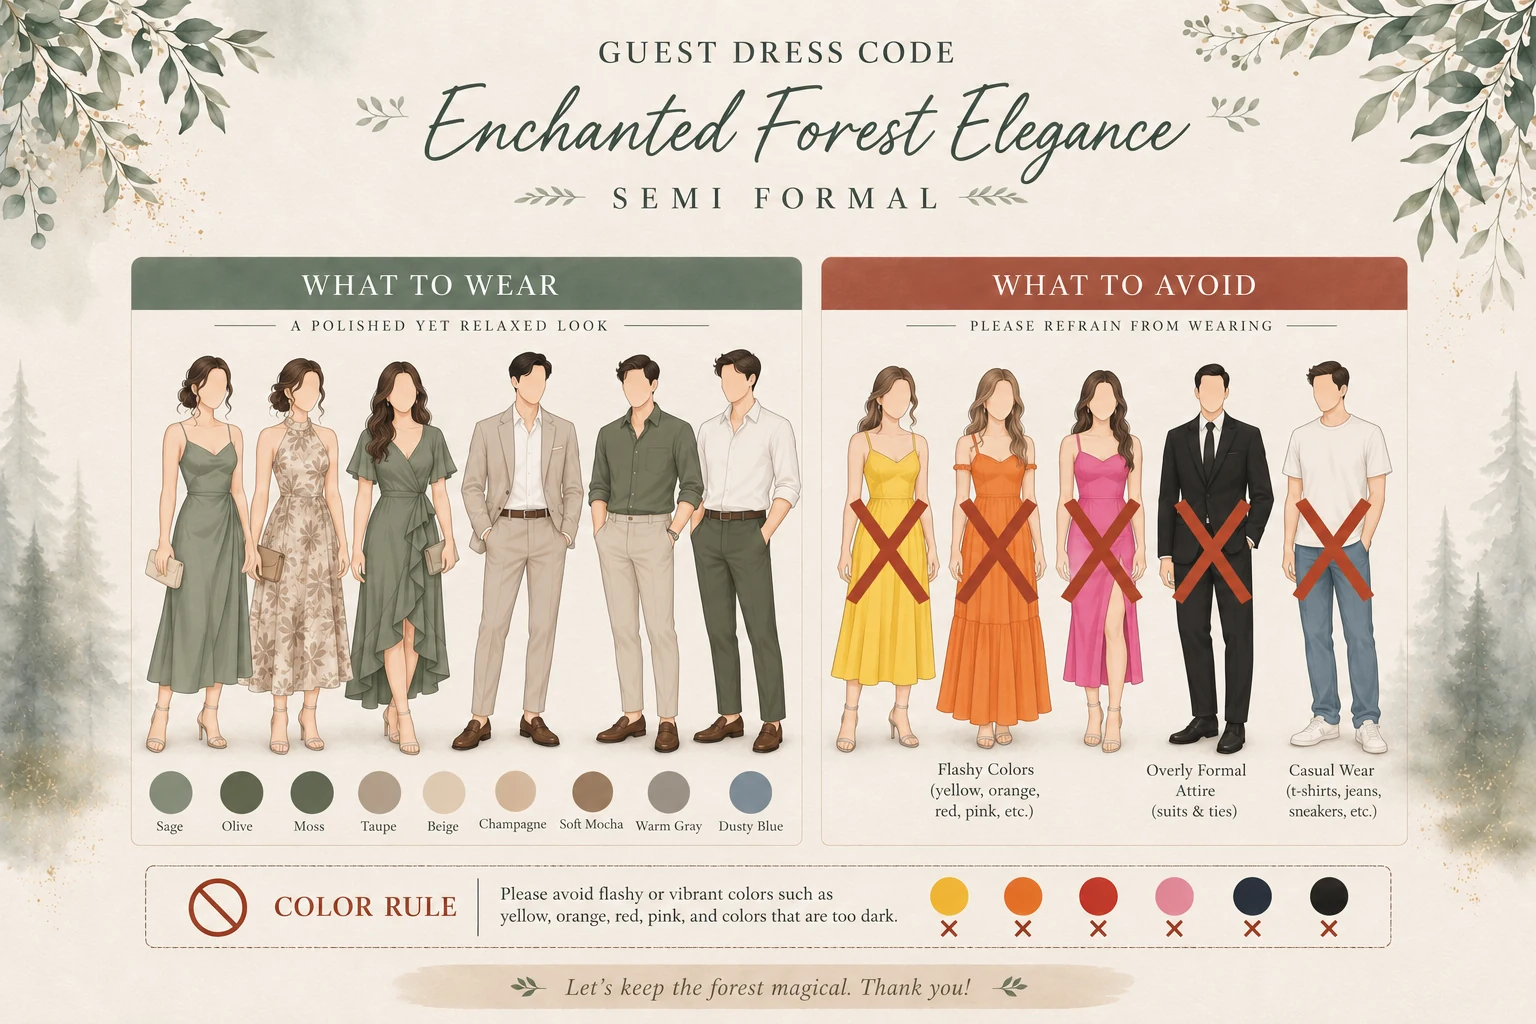
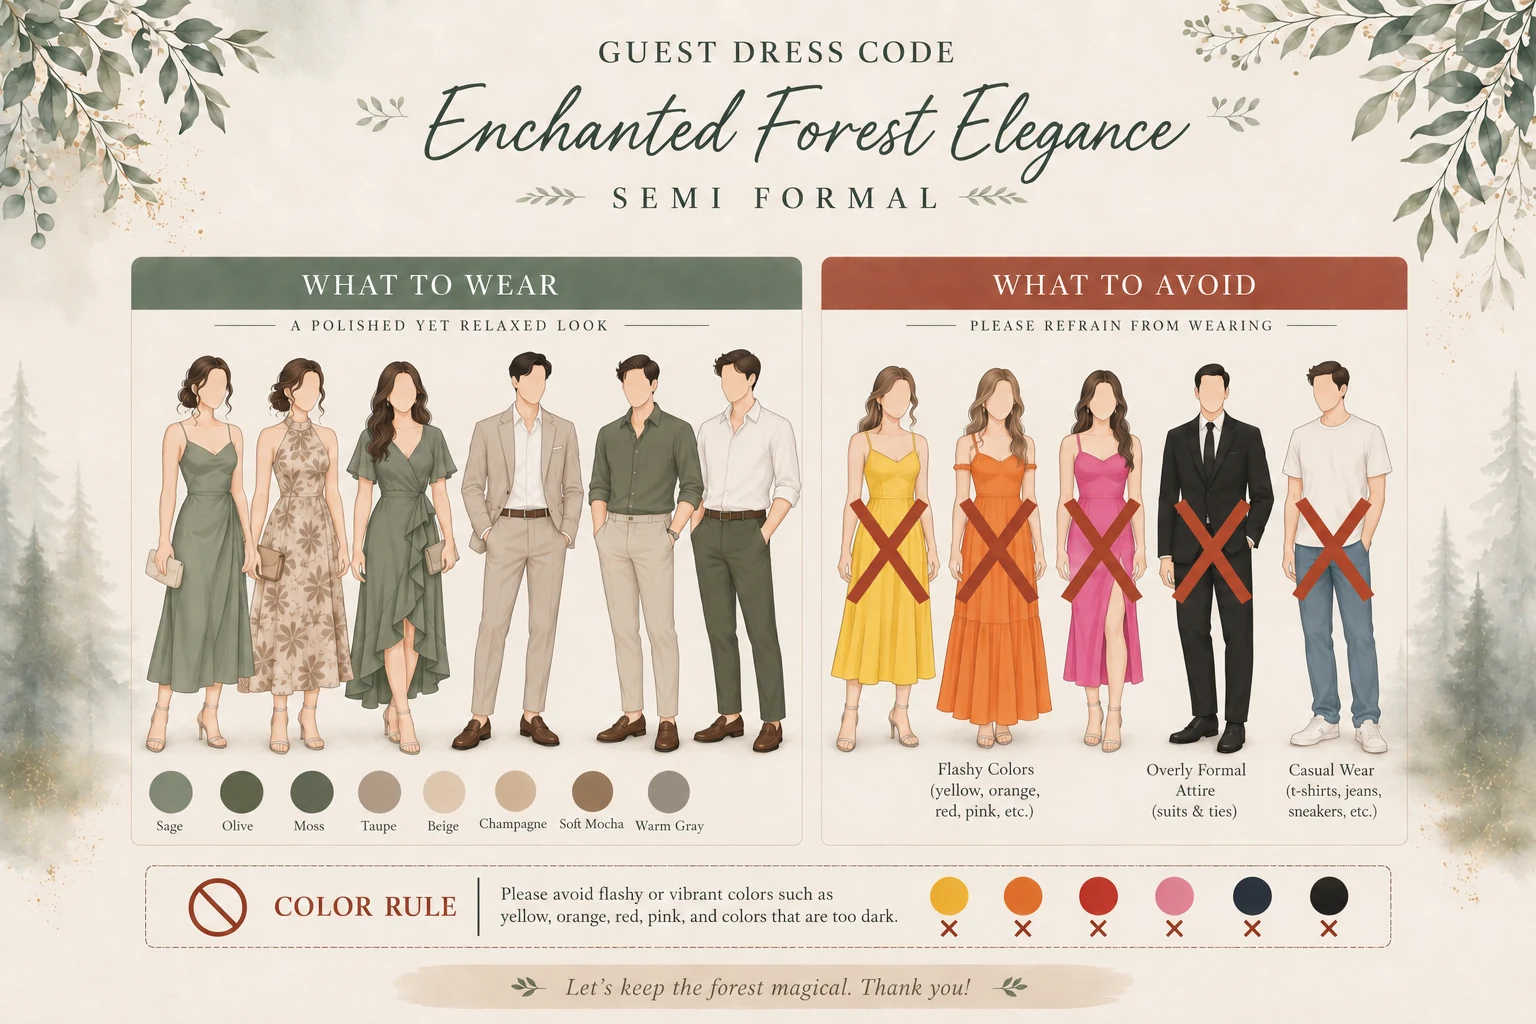
feat(rsvp): plus-one notice, and hide the guest count until a name matches
Grouped with the dress-code swap because both edit index.html.

The plus-one notice sits directly above the note box, and the box now
lives inside it. The paragraph tells the guest to write the name there, so
a divider and a field label between the instruction and the field it
points at were separating the two. The textarea keeps an aria-label, which
a placeholder cannot supply.

The guest stepper starts hidden and appears only once the sheet says how
many seats a party actually has. Before a name is recognised it is asking
a question nobody can answer: no ceiling, and any number in it a guess.

That change surfaced a bug worth naming. Matching a party of four and then
editing the name left "4" sitting in a hidden field — it would have
submitted four seats for someone who never chose that and could not see it
to correct it. The same was already true of a one-seat party, which
pre-dates this. A hidden stepper now always resets to 1. Not on a decline:
that count is moot either way, and flipping back to accepting should not
quietly wipe a number already picked.

The dress-code guide is the couple's newer artwork — eight swatches now,
dusty blue dropped. The alt text follows it, since that text is the only
place the palette exists for anyone who cannot see the image.

Claude-Session: https://claude.ai/code/session_01YR2yw5PctsgrcmrMrxWh49

diff --git a/index.html b/index.html
@@ -225,7 +225,7 @@
             <img src="media/attire/dress-code.webp" loading="lazy"
                  alt="Guest dress code: Enchanted Forest Elegance, semi formal — a
                       polished yet relaxed look. Wear sage, olive, moss, taupe, beige,
-                      champagne, soft mocha, warm gray or dusty blue. Please avoid
+                      champagne, soft mocha or warm gray. Please avoid
                       flashy colours (yellow, orange, red, pink), overly formal attire
                       such as suits and ties, casual wear such as t-shirts, jeans and
                       sneakers, and colours that are too dark.">
@@ -378,7 +378,9 @@
             </label>
           </fieldset>
 
-          <div class="rsvp-seats" id="rsvpSeats">
+          <!-- starts hidden (is-moot) so it never flashes before rsvp.js has
+               matched the name; the script owns the class from then on -->
+          <div class="rsvp-seats is-moot" id="rsvpSeats">
             <p class="rsvp-seats-label" id="rsvpSeatsLabel">Number of guests</p>
             <div class="rsvp-stepper">
               <button type="button" class="rsvp-step" id="seatMinus" aria-label="One guest fewer">&minus;</button>
@@ -389,8 +391,24 @@
             <p class="rsvp-seats-hint" id="rsvpSeatsHint"></p>
           </div>
 
-          <label>A note for the couple <textarea name="note" rows="3"
-                 placeholder="A song request, a memory, a blessing&hellip;"></textarea></label>
+          <!-- Sits immediately above the note field because that is where it asks the
+               guest to act — a plus-one notice further up the card would be read and
+               then scrolled past before the box it refers to appears. -->
+          <div class="rsvp-plusone">
+            <p class="rsvp-plusone-title">Bringing a Plus One?</p>
+            <p class="rsvp-plusone-body">As we have a limited number of seats available, we
+              kindly ask that you indicate the name of your plus one in the note textbox when
+              submitting your RSVP. This will allow us to properly account for our guest list.
+              <strong>We will review your request and get back to you with confirmation.</strong>
+              We sincerely appreciate your understanding and consideration.</p>
+            <!-- The box lives inside the notice, not after it: the paragraph above tells
+                 the guest to write here, so a divider and a field name between the two
+                 would separate an instruction from the thing it points at. It keeps a
+                 label for screen readers, which the placeholder alone cannot supply. -->
+            <textarea class="rsvp-note-box" name="note" rows="3"
+                      aria-label="A note for the couple"
+                      placeholder="A song request, a memory, a blessing&hellip;"></textarea>
+          </div>
           <button class="btn-forest" type="submit">Send RSVP</button>
           <p class="rsvp-status" id="rsvpStatus" role="status"></p>
         </form>

diff --git a/js/rsvp.js b/js/rsvp.js
@@ -43,16 +43,27 @@
 
     var seatsHint = document.getElementById("rsvpSeatsHint");
     var seatsRow = document.getElementById("rsvpSeats");
-    // the guest-count row steps aside when there is no choice to make: a decline,
-    // or a party allotted 0 or 1 seats — accepting then simply means "1 seat"
-    var declined = false, autoOne = false;
+    // The guest-count row steps aside when there is no choice to make: a decline, a
+    // party allotted 0 or 1 seats (accepting then simply means "one seat"), or — the
+    // default — no name matched yet. Until the sheet says how many seats this party
+    // has, a stepper is asking a question nobody can answer: it would start at 1 with
+    // no ceiling, and any number typed into it would be a guess. It appears once the
+    // name is recognised and there is a real allotment to spend.
+    var declined = false, autoOne = false, matched = false;
     var syncSeatsRow = function () {
-      if (seatsRow) seatsRow.classList.toggle("is-moot", declined || autoOne);
+      var moot = declined || autoOne || !matched;
+      if (seatsRow) seatsRow.classList.toggle("is-moot", moot);
+      // A stepper nobody can see must not submit a number nobody chose. Matching a
+      // party of four and then editing the name left "4" sitting in a hidden field.
+      // Not reset on a decline: that count is moot either way, and flipping back to
+      // accepting should not have quietly wiped the number they had already picked.
+      if ((!matched || autoOne) && seatsEl) seatsEl.value = 1;
     };
     // the sheet says how many seats this party was given: that number becomes the
     // stepper's hard ceiling, and the default answer
     var applySeats = function (g) {
       if (!seatsEl) return;
+      matched = true;
       autoOne = g.seats <= 1;
       syncSeatsRow();
       if (autoOne) { if (seatsHint) seatsHint.textContent = ""; return; }
@@ -71,6 +82,7 @@
       for (var i = 0; i < guests.length; i++) {
         if (guests[i].name.toLowerCase() === q) { applySeats(guests[i]); return; }
       }
+      matched = false;                 // an unrecognised name has no allotment to show
       autoOne = false;
       syncSeatsRow();
       if (seatsEl) { seatsEl.removeAttribute("max"); }

diff --git a/css/sections.css b/css/sections.css
@@ -391,6 +391,27 @@
 .rsvp-step:last-of-type { border-radius: 0 3px 3px 0; }
 .rsvp-step:hover { background: rgba(191, 163, 114, .22); }
 .rsvp-step:focus-visible { outline: 2px solid var(--olive); outline-offset: 1px; }
+/* The plus-one notice. Set as prose, not as another form label: the rest of the card
+   is small uppercase field names, and one more of those would read as a field the guest
+   has to fill in rather than something to read. Ruled top and bottom so it reads as an
+   aside between the seat stepper and the note box. */
+.rsvp-plusone {
+  border-top: 1px solid rgba(191, 163, 114, .35);
+  padding: var(--space-3) 0 0;
+}
+/* the box belongs to the paragraph above it — close enough to read as one thought */
+.rsvp-note-box { margin-top: var(--space-2); }
+.rsvp-plusone-title {
+  margin: 0 0 .5em; font-family: var(--serif); font-style: italic;
+  font-size: 1.15rem; color: var(--forest-deep);
+}
+.rsvp-plusone-body {
+  margin: 0; font-family: var(--serif); font-size: .98rem; line-height: 1.55;
+  color: var(--ink);
+}
+.rsvp-plusone-body strong { font-weight: 600; color: var(--forest-deep); }
+:root[data-theme="dark"] .rsvp-plusone-body strong { color: var(--gold-light); }
+
 .rsvp-seats-hint {
   margin: .2rem 0 0; min-height: 1.2em;
   font-family: var(--serif); font-style: italic; font-size: .92rem; color: var(--gold-deep);
